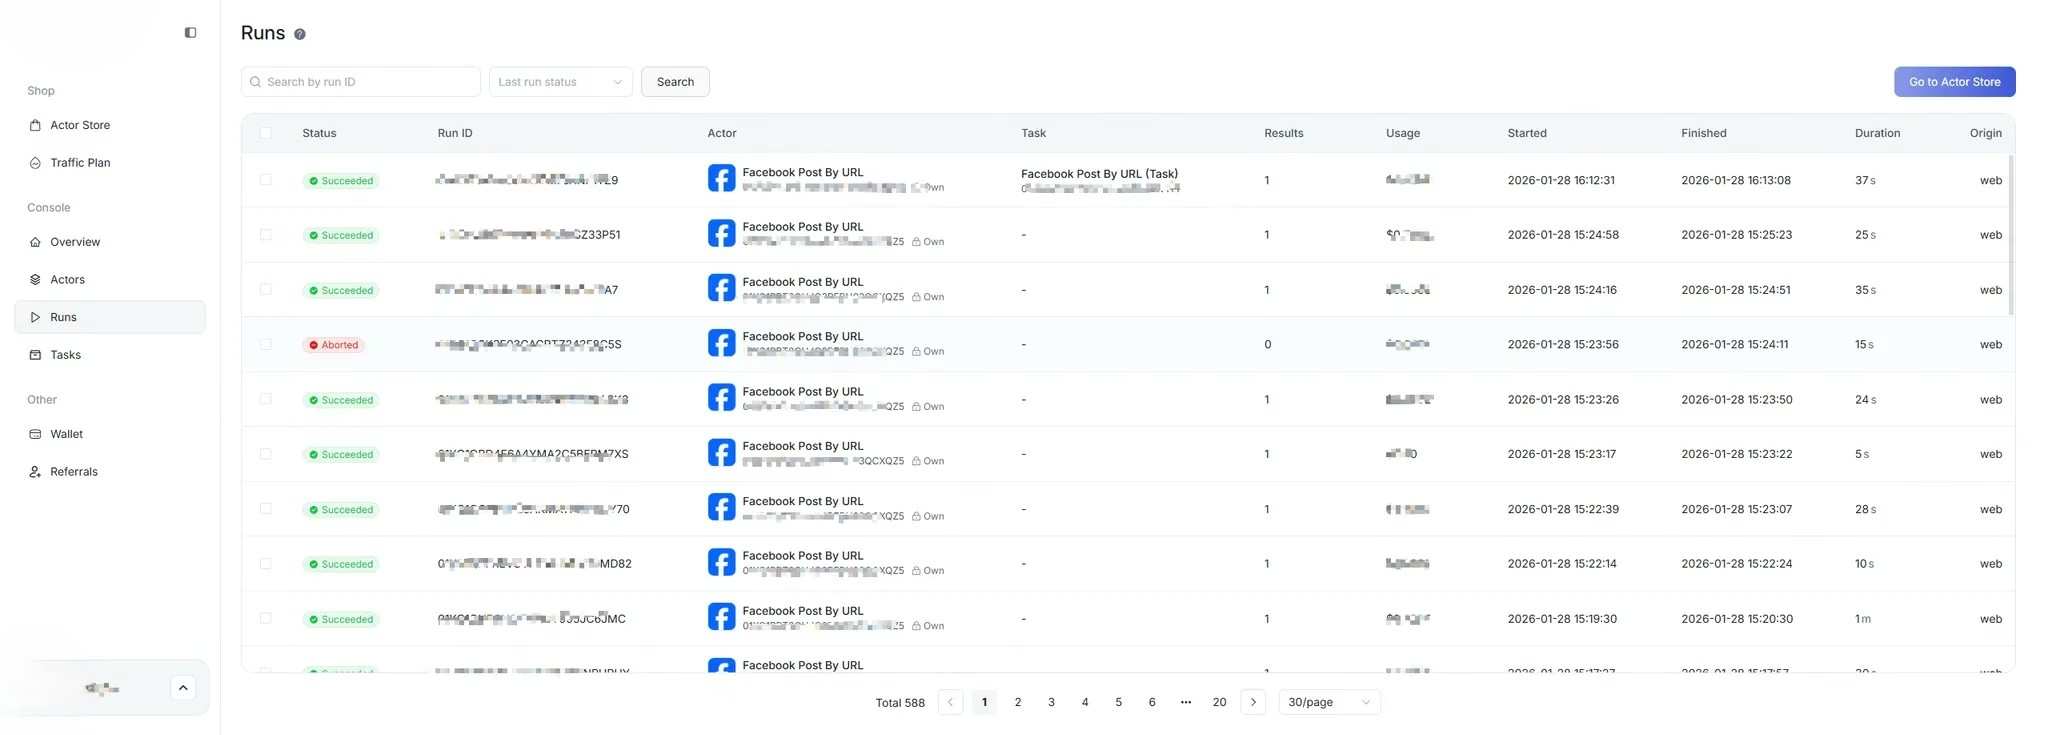
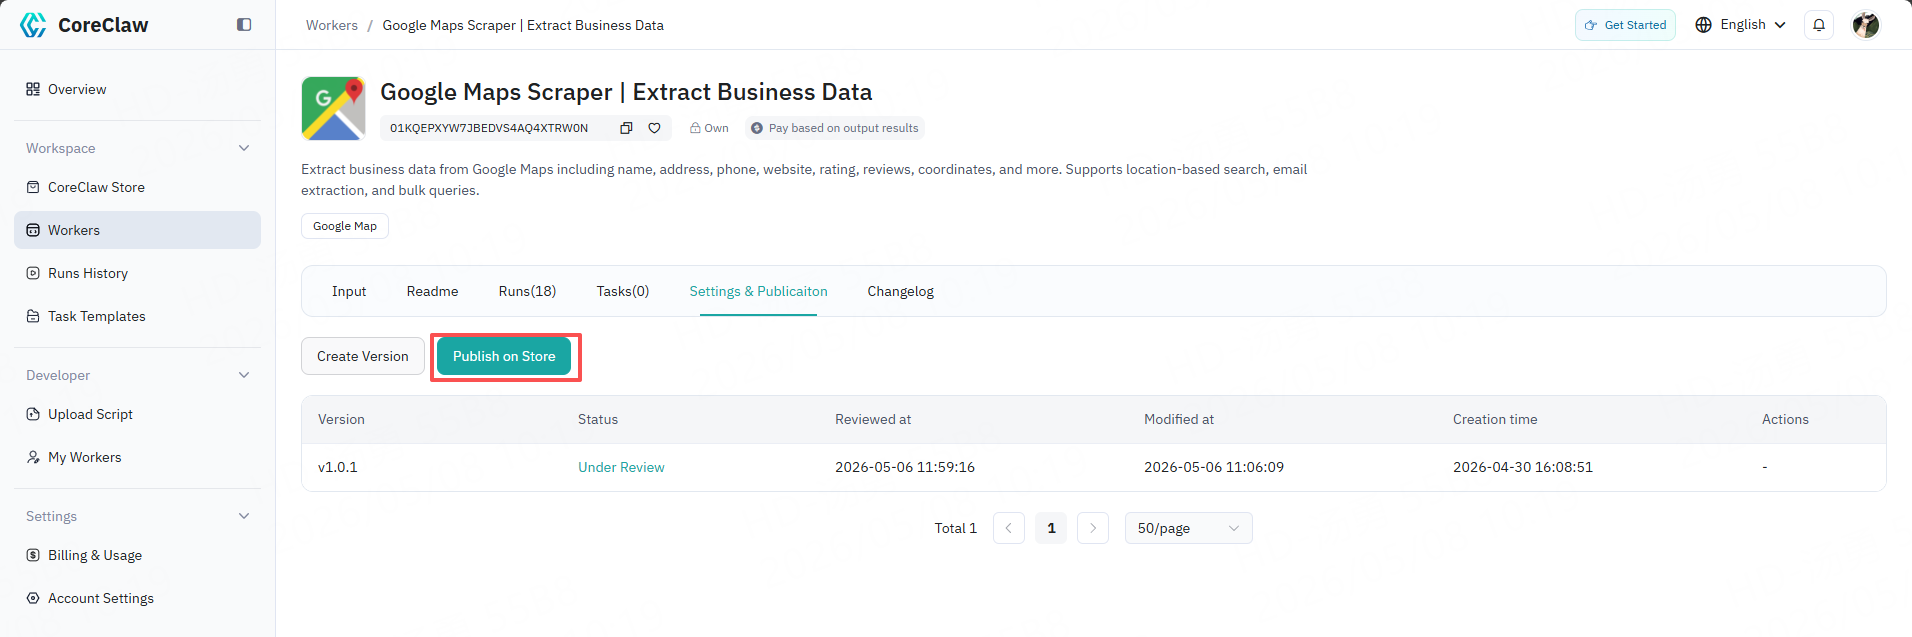
update

diff --git a/src/content/docs/user-guide/run-worker/quick-start.md b/src/content/docs/user-guide/run-worker/quick-start.md
@@ -31,7 +31,7 @@ In the Worker Store, you can browse by category or use the search bar to find th
 
 ![Worker Store](@/assets/docs/50.png)
 
-On the Worker detail page, you can review the description, input parameters, sample output, and pricing. Click **Use** to proceed.
+On the Worker detail page, you can review the description, input parameters, sample output, and pricing. Click **Run** to proceed.
 
 ![Worker detail page](@/assets/docs/51.png)
 

diff --git a/src/content/docs/zh-cn/user-guide/run-worker/quick-start.md b/src/content/docs/zh-cn/user-guide/run-worker/quick-start.md
@@ -31,7 +31,7 @@ sidebar:
 
 ![脚本商店](@/assets/docs/56.png)
 
-在脚本详情页，您可以查看描述、输入参数、示例输出和定价信息。点击**使用**进入配置页面。
+在脚本详情页，您可以查看描述、输入参数、示例输出和定价信息。点击**运行**进入配置页面。
 
 ![脚本详情页](@/assets/docs/58.png)
 

diff --git a/src/content/docs/developer-guide/publishing-and-monetization/publish-your-worker.md b/src/content/docs/developer-guide/publishing-and-monetization/publish-your-worker.md
@@ -23,7 +23,6 @@ After the script is created, it can be executed **immediately without review**, 
 - Can be run immediately
 - **Only visible to you**
 
-![Private script](@/assets/docs/img_45.jpg)
 
 Private scripts are ideal for:
 

diff --git a/src/content/docs/zh-cn/developer-guide/publishing-and-monetization/publish-your-worker.md b/src/content/docs/zh-cn/developer-guide/publishing-and-monetization/publish-your-worker.md
@@ -23,7 +23,6 @@ CoreClaw 支持发布**私有脚本**和**公开脚本**。所有脚本执行文
 - 可立即运行
 - **仅对自己可见**
 
-![私有脚本](@/assets/docs/img_45.jpg)
 
 私有脚本适用于：
 